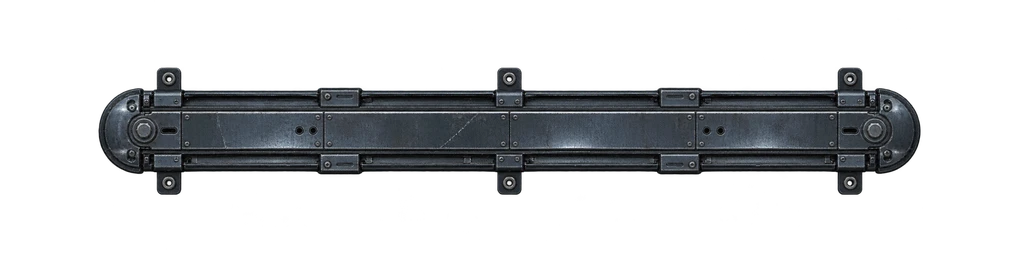
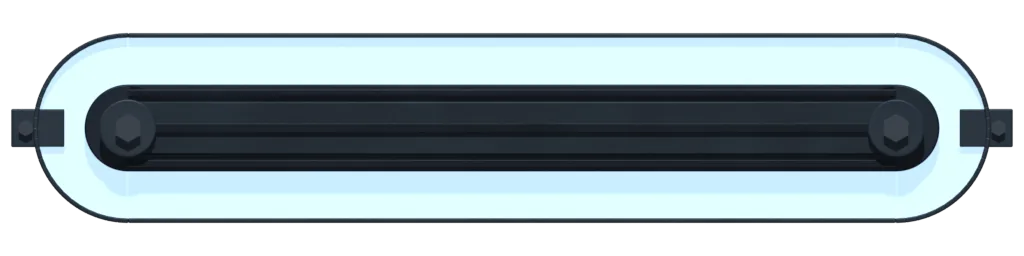
Les deux luminaires refaits dans Blender, le bandeau en trois tranches
Symptôme : les lampes posées dans un tableau se lisaient mal — des
pastilles pâles, et pour le bandeau une barre laiteuse aux bouts pointus :
« il faudrait refaire les différentes lampes sous Blender, là c'est moche »
(le concepteur, 16/11).

Causes : les deux images sortaient d'un générateur et montraient le dos
d'une lampe, du métal clair, rien d'allumé. Et celle du bandeau était
posée d'un seul quad à la longueur de la lampe : un bandeau long étirait
ses embouts ronds en pointes, ses boulons en ovales.

Correctifs :
- tools/images/blender/lampes.py : un capot d'acier à ailettes, ses pattes
  boulonnées, et la lumière qui fuit autour — un anneau pour le
  plafonnier, deux bandes le long de l'épine du bandeau. Trois essais : au
  premier le liseré n'était qu'un fil à la taille du jeu ; la lumière prend
  maintenant le tiers extérieur. Scène à part (« lampes »), sans vider le
  fichier Blender ouvert ;
- le bandeau se dessine en trois tranches (lampes.ts : tranchesBandeau) :
  deux embouts carrés, jamais étirés, un milieu uniforme qui s'allonge.

Vérification : lampes.spec.ts — embouts carrés à toute longueur, tranches
jointives du bord au bord, bouts de la lampe au centre des embouts, lampe
courte sans recouvrement ; avant le correctif du rendu : 1 rouge. Chaîne
des images : 2 livrées, 0 hors mesure (13 Ko et 8 Ko). Au banc, tableau 1 :
le bandeau en tube clair, bouts ronds. type-check 0 erreur, 2360 tests,
build OK.
[…]

diff --git a/src/render/lampes.spec.ts b/src/render/lampes.spec.ts
@@ -1,0 +1,55 @@
+import { describe, it, expect } from 'vitest'
+import { readFileSync } from 'node:fs'
+import { fileURLToPath } from 'node:url'
+import { EMBOUT_U, tranchesBandeau } from './lampes'
+
+// LE BANDEAU EN TROIS TRANCHES (retour du concepteur, 16/11 : les lampes
+// « moches ») : l'image, étirée d'un seul tenant, allongeait ses embouts en
+// pointes. Les embouts gardent leur forme, le milieu prend la longueur.
+const source = readFileSync(fileURLToPath(new URL('./renderer.ts', import.meta.url)), 'utf8')
+const a = source.indexOf('private drawLampes(')
+const drawLampes = a < 0 ? '' : source.slice(a, source.indexOf('\n  }\n', a))
+
+describe('le bandeau se dessine en trois tranches', () => {
+  it('les embouts sont carrés, quelle que soit la longueur de la lampe', () => {
+    for (const demiLong of [60, 120, 400, 900]) {
+      const t = tranchesBandeau(demiLong, 20)
+      expect(t).toHaveLength(3)
+      expect(t[0].x1 - t[0].x0).toBeCloseTo(40, 6)
+      expect(t[2].x1 - t[2].x0).toBeCloseTo(40, 6)
+      expect([t[0].u0, t[0].u1]).toEqual([0, EMBOUT_U])
+      expect([t[2].u0, t[2].u1]).toEqual([1 - EMBOUT_U, 1])
+    }
+  })
+
+  it('le milieu prend le reste : les tranches se suivent sans trou, du bord au bord du quad', () => {
+    const t = tranchesBandeau(400, 20)
+    expect(t[0].x0).toBeCloseTo(-420, 6)
+    expect(t[2].x1).toBeCloseTo(420, 6)
+    expect(t[1].x0).toBe(t[0].x1)
+    expect(t[1].x1).toBe(t[2].x0)
+    expect([t[1].u0, t[1].u1]).toEqual([EMBOUT_U, 1 - EMBOUT_U])
+  })
+
+  it('les deux bouts de la lampe tombent au centre des embouts', () => {
+    // le segment de la lampe va de −demiLong à +demiLong : c'est là que
+    // l'image a ses brides (à un huitième de chaque bord)
+    const t = tranchesBandeau(400, 20)
+    expect((t[0].x0 + t[0].x1) / 2).toBeCloseTo(-400, 6)
+    expect((t[2].x0 + t[2].x1) / 2).toBeCloseTo(400, 6)
+  })
+
+  it('une lampe trop courte serre ses deux embouts, sans milieu ni recouvrement', () => {
+    const t = tranchesBandeau(8, 20)
+    expect(t).toHaveLength(2)
+    expect(t[0].x0).toBeCloseTo(-28, 6)
+    expect(t[0].x1).toBeCloseTo(0, 6)
+    expect(t[1].x0).toBeCloseTo(0, 6)
+    expect(t[1].x1).toBeCloseTo(28, 6)
+  })
+
+  it('le rendu pose le bandeau tranche par tranche, le plafonnier d’un seul quad', () => {
+    expect(drawLampes).toContain('tranchesBandeau(l.demiLong, R)')
+    expect(drawLampes).not.toMatch(/const hw = l\.bandeau \? l\.demiLong \+ R : R/)
+  })
+})

diff --git a/src/render/renderer.ts b/src/render/renderer.ts
@@ -110,6 +110,7 @@ import {
   hauteursPartagees,
   type BoiteVolume,
 } from './volume'
+import { tranchesBandeau } from './lampes'
 import { RELIEF_PAROIS_GLSL, fractionSommet, pointDuSommet } from './reliefParois'
 import {
   CARREAU_MONDE,
@@ -8035,32 +8036,38 @@ export class Renderer {
       }
       // même rayon que le dessin procédural, marge des pattes comprise
       const R = Math.min(26, Math.max(11, 9 + l.h * 0.012)) * l.taille * 1.35
-      const hw = l.bandeau ? l.demiLong + R : R
       const hh = R
       const ca = Math.cos(l.angleRad)
       const sa = Math.sin(l.angleRad)
-      const q = this.decalScratch
-      let o = 0
-      const put = (dx: number, dy: number, u: number, v: number): void => {
-        q[o++] = l.x + dx * ca - dy * sa
-        q[o++] = l.y + dx * sa + dy * ca
-        q[o++] = u
-        q[o++] = v
-      }
-      put(-hw, -hh, 0, 0)
-      put(hw, -hh, 1, 0)
-      put(hw, hh, 1, 1)
-      put(-hw, -hh, 0, 0)
-      put(hw, hh, 1, 1)
-      put(-hw, hh, 0, 1)
-      gl.bindBuffer(gl.ARRAY_BUFFER, this.decalVbo)
-      gl.bufferSubData(gl.ARRAY_BUFFER, 0, q)
       gl.activeTexture(gl.TEXTURE0)
       gl.bindTexture(gl.TEXTURE_2D, tex)
       gl.uniform1i(du['uTexDecal'], 0)
       gl.uniform1f(du['uFade'], 0.92)
       gl.uniform1f(du['uEfface'], 0)
-      gl.drawArrays(gl.TRIANGLES, 0, 6)
+      gl.bindBuffer(gl.ARRAY_BUFFER, this.decalVbo)
+      // LE BANDEAU EN TROIS TRANCHES (lampes.ts) : deux embouts carrés, un
+      // milieu qui prend la longueur. D'un seul quad, l'image s'étirait
+      // avec la lampe — ses embouts ronds en pointes, ses boulons en ovales.
+      // Le plafonnier, lui, tient dans un quad.
+      const tranches = l.bandeau ? tranchesBandeau(l.demiLong, R) : [{ x0: -R, x1: R, u0: 0, u1: 1 }]
+      for (const t of tranches) {
+        const q = this.decalScratch
+        let o = 0
+        const put = (dx: number, dy: number, u: number, v: number): void => {
+          q[o++] = l.x + dx * ca - dy * sa
+          q[o++] = l.y + dx * sa + dy * ca
+          q[o++] = u
+          q[o++] = v
+        }
+        put(t.x0, -hh, t.u0, 0)
+        put(t.x1, -hh, t.u1, 0)
+        put(t.x1, hh, t.u1, 1)
+        put(t.x0, -hh, t.u0, 0)
+        put(t.x1, hh, t.u1, 1)
+        put(t.x0, hh, t.u0, 1)
+        gl.bufferSubData(gl.ARRAY_BUFFER, 0, q)
+        gl.drawArrays(gl.TRIANGLES, 0, 6)
+      }
     }
     if (started) {
       gl.bindVertexArray(null)

diff --git a/src/render/lampes.ts b/src/render/lampes.ts
@@ -1,0 +1,35 @@
+// LE BANDEAU SE DESSINE EN TROIS TRANCHES.
+//
+// L'image d'un bandeau (lampe-bande.webp, 1024 × 256) était posée d'un seul
+// tenant sur un quad à la longueur de la lampe : un bandeau long étirait ses
+// embouts ronds en pointes et ses boulons en ovales — « c'est moche » (le
+// concepteur, 16/11). Elle se découpe maintenant comme un cadre : un embout
+// carré à chaque bout (le premier et le dernier quart de l'image), jamais
+// étirés, et un milieu (la moitié centrale) qui prend toute la longueur
+// restante. L'image est dessinée pour : tout ce qu'elle porte dans son
+// milieu est uniforme le long de la barre (tools/images/blender/lampes.py).
+
+/** La part de l'image que prend chaque embout (un carré : 256 px sur 1024). */
+export const EMBOUT_U = 0.25
+
+export interface TrancheBandeau {
+  /** le long de la barre, dans son repère (0 : son milieu), unités monde */
+  x0: number
+  x1: number
+  /** la bande d'image posée dessus */
+  u0: number
+  u1: number
+}
+
+/** Les tranches d'un bandeau de demi-longueur `demiLong`, pour un quad de
+ *  demi-hauteur `r` (le quad déborde la lampe de `r` à chaque bout). Un
+ *  embout fait la hauteur du quad, 2r ; une lampe trop courte pour en loger
+ *  deux les serre l'un contre l'autre, sans milieu. */
+export function tranchesBandeau(demiLong: number, r: number): TrancheBandeau[] {
+  const hw = Math.max(demiLong, 0) + r
+  const embout = Math.min(2 * r, hw)
+  const t: TrancheBandeau[] = [{ x0: -hw, x1: -hw + embout, u0: 0, u1: EMBOUT_U }]
+  if (hw - embout > 1e-6) t.push({ x0: -hw + embout, x1: hw - embout, u0: EMBOUT_U, u1: 1 - EMBOUT_U })
+  t.push({ x0: hw - embout, x1: hw, u0: 1 - EMBOUT_U, u1: 1 })
+  return t
+}

diff --git a/tools/images/blender/lampes.py b/tools/images/blender/lampes.py
@@ -1,0 +1,177 @@
+"""LES DEUX LUMINAIRES, refaits dans Blender (16/11) — lampe-plafonnier.webp
+(512², rond) et lampe-bande.webp (1024 × 256, le bandeau).
+
+Les anciens sortaient du générateur : le DOS d'une lampe, du métal clair et
+rien d'allumé. En jeu, c'étaient des pastilles pâles et, pour le bandeau —
+étiré d'un seul tenant à la longueur de la lampe —, une barre laiteuse aux
+embouts pointus : « c'est moche » (le concepteur, 16/11).
+
+On regarde toujours le luminaire PAR-DESSUS (il est au plafond, la caméra
+au-dessus de lui) : un capot, pas une vitre. Mais un capot qui dit ce qu'il
+est — un acier sombre à ailettes de refroidissement, des pattes boulonnées,
+et LA LUMIÈRE QUI FUIT tout autour, par le jeu entre le capot et sa
+monture : un liseré blanc froid, seul élément clair de la pièce. La flaque
+et le halo au sol restent ceux du moteur (la carte de lumière).
+
+Le cadrage est celui que le moteur attend (renderer.ts : drawLampes) : le
+quad déborde le corps de 35 % pour les pattes — le corps a donc un rayon de
+1 / 1,35 de la demi-image. LE BANDEAU SE DESSINE EN TROIS TRANCHES (lampes.ts
+: tranchesBandeau) : deux embouts carrés, jamais étirés, et un milieu qui
+s'allonge — tout ce qui est dans le milieu de l'image (de 0,25 à 0,75) est
+donc UNIFORME le long de la barre : des ailettes filantes, pas de boulons.
+
+Dans Blender :
+    DOSSIER = r'...\\tools\\images\\blender'
+    exec(open(DOSSIER + r'\\lampes.py', encoding='utf-8').read())
+    lampes() ; lance(LAMPES, SORTIE, 256)
+    (SORTIE : masters\\images\\lampes, avec brut\\ et alpha\\)
+"""
+import bpy, bmesh, math, os, random
+from mathutils import Matrix, Vector
+
+_src = os.path.join(DOSSIER, 'surfaces.py')
+exec(compile(open(_src, encoding='utf-8').read(), _src, 'exec'), globals())
+
+PREFIXE = 'lampe-'
+LAMPES = ['plafonnier', 'bande']
+DEBORD = 1.35             # le quad du moteur, rapporté au corps
+
+
+def matieres_lampes():
+    mats = matieres_biome()
+    mats['capot'] = mat_brosse('lampe-capot', (0x26, 0x32, 0x3e), (0x50, 0x60, 0x6e), 81, brosse=0.10)
+    mats['plat'] = mat_brosse('lampe-monture', (0x32, 0x40, 0x4c), (0x5e, 0x6e, 0x7c), 83, brosse=0.08)
+    mats['rail'] = mat_brosse('lampe-ailette', (0x1a, 0x24, 0x2e), (0x38, 0x46, 0x52), 85, brosse=0.05)
+    mats['rivet'] = mats['plat']
+    mats['ecrou'] = mat_simple('lampe-ecrou', (0x58, 0x62, 0x6c), rug=0.4, metal=0.6)
+    # la lumière qui fuit : un blanc froid — c'est le seul clair de la
+    # pièce, il doit se lire à 40 pixels d'écran. À force 5, il sortait en
+    # blanc pur, écrêté, un trait de feutre (essai 1) : à 1, il garde sa
+    # teinte, et l'acier éclairci autour le porte au lieu de le découper
+    mats['fuite'] = mat_simple('lampe-fuite', (0xc8, 0xe6, 0xff), rug=0.5, emission=(0xc4, 0xe6, 0xff), force=1.0)
+    return mats
+
+
+def piece(sc, mats, nom, bati, x1, z1):
+    P = parent(sc, nom)
+    at = Atelier()
+    bati(at)
+    at.objets(P, mats, {'capot': 0.0016, 'plat': 0.0012, 'rail': 0.0008}, prefixe='lampe-' + nom)
+    for ob in P.objects:
+        if ob.name.endswith(('capot', 'fuite')):
+            ob.data.polygons.foreach_set('use_smooth', [True] * len(ob.data.polygons))
+            try:
+                ob.data.set_sharp_from_angle(angle=math.radians(40))
+            except Exception as e:
+                print('lissage :', e)
+    declare(nom, P, 0, x1, 0, z1, alpha=True)
+
+
+def plafonnier(at):
+    c = 0.25                      # le centre de l'image (0,5 de côté)
+    R = c / DEBORD                # le corps
+    # la fuite de lumière, sous le capot, qui déborde en liseré
+    at.disque('fuite', c, c, R * 1.0, -0.004, 0.0, 0, seg=96)
+    # la monture : une couronne fine, détachée du capot par le liseré
+    at.anneau('plat', c, c, R * 1.0, R * 0.95, -0.012, 0.0, 0.3, seg=96)
+    # le capot, bombé en deux gradins
+    # (à 0,88 du rayon, la lumière n'était plus qu'un fil à la taille du
+    # jeu — une pastille sombre, essai 3 : le capot rentre, la lumière prend
+    # le tiers extérieur)
+    at.disque('capot', c, c, R * 0.66, -0.02, 0.0, 0, seg=96)
+    at.disque('capot', c, c, R * 0.46, -0.03, -0.02, 0.4, seg=96)
+    # les ailettes : des couronnes dressées sur le premier gradin
+    for k in range(2):
+        r = R * (0.63 - k * 0.075)
+        at.anneau('rail', c, c, r, r - R * 0.03, -0.027, -0.02, 0, seg=96)
+    # le moyeu et son écrou
+    at.disque('plat', c, c, R * 0.22, -0.038, -0.03, 0.3, seg=48)
+    at.cylindre('ecrou', c, c, R * 0.11, -0.046, -0.038, 0, seg=6)
+    # quatre fentes rayonnantes sur le gradin haut : la chaleur sort par là
+    for k in range(4):
+        a = math.pi / 4 + k * math.pi / 2
+        at.boite('rail', c + math.cos(a) * R * 0.35 - R * 0.07, c + math.cos(a) * R * 0.35 + R * 0.07,
+                 c + math.sin(a) * R * 0.35 - R * 0.02, c + math.sin(a) * R * 0.35 + R * 0.02,
+                 -0.0305, -0.0285, 0, rot=Matrix.Rotation(-a, 4, 'Y'))
+    # quatre bras portent le capot à travers l'anneau de lumière
+    for k in range(4):
+        a = math.pi / 4 + k * math.pi / 2
+        rm = R * 0.8
+        at.boite('plat', c + math.cos(a) * rm - R * 0.17, c + math.cos(a) * rm + R * 0.17, c + math.sin(a) * rm - R * 0.03, c + math.sin(a) * rm + R * 0.03,
+                 -0.012, 0.0, 0.3, rot=Matrix.Rotation(-a, 4, 'Y'))
+    # les quatre pattes, de la monture au bord de l'image, boulonnées
+    for k in range(4):
+        a = k * math.pi / 2
+        ca, sa = math.cos(a), math.sin(a)
+        rm = R * 1.13
+        at.boite('plat', c + ca * rm - R * 0.2, c + ca * rm + R * 0.2, c + sa * rm - R * 0.105, c + sa * rm + R * 0.105,
+                 -0.01, 0.0, 0.3, rot=Matrix.Rotation(-a, 4, 'Y'))
+        at.cylindre('ecrou', c + ca * R * 1.2, c + sa * R * 1.2, R * 0.055, -0.016, -0.01, 0, seg=6)
+
+
+def bande(at):
+    zc = 0.125                    # l'axe (l'image fait 1 × 0,25)
+    R = zc / DEBORD               # la demi-hauteur du corps
+    xa, xb = 0.125, 0.875         # les deux bouts du segment de la lampe
+    # la fuite : une gélule claire sous le capot, qui déborde en liseré
+    at.boite('fuite', xa, xb, zc - R, zc + R, -0.004, 0.0, 0)
+    # (les disques un cheveu plus bas que le pavé : deux faces émissives
+    # confondues se sommaient en une tache blanche, essai 2)
+    for x in (xa, xb):
+        at.disque('fuite', x, zc, R, -0.0036, 0.0, 0, seg=64)
+    # la monture : deux lisses le long de la barre, une couronne à chaque
+    # bout — le liseré de lumière passe entre elle et le capot
+    for s in (-1, 1):
+        z0, z1 = sorted((zc + s * R * 0.95, zc + s * R))
+        at.boite('plat', xa, xb, z0, z1, -0.012, 0.0, 0.3)
+    # (une couronne ENTIÈRE montrait sa moitié intérieure en travers du
+    # liseré, essai 2 : la demi-couronne se pose en petits pavés tangents)
+    n = 28
+    for x, s0 in ((xa, 1), (xb, -1)):
+        for i in range(n):
+            ang = math.pi / 2 + s0 * math.pi * (i + 0.5) / n
+            ca, sa = math.cos(ang), math.sin(ang)
+            demi = math.pi * R * 0.975 / n * 0.56
+            at.boite('plat', x + ca * R * 0.975 - demi, x + ca * R * 0.975 + demi, zc + sa * R * 0.975 - R * 0.025, zc + sa * R * 0.975 + R * 0.025,
+                     -0.012, 0.0, 0.3, rot=Matrix.Rotation(-(ang + math.pi / 2), 4, 'Y'))
+    # le capot : une gélule plus étroite, en deux gradins
+    # (large de 0,84, il ne laissait qu'un fil de lumière à la taille du
+    # jeu, essai 3 : une épine centrale, la lumière de part et d'autre)
+    for (k, y0, y1, var) in ((0.46, -0.02, 0.0, 0.0), (0.28, -0.03, -0.02, 0.4)):
+        at.boite('capot', xa, xb, zc - R * k, zc + R * k, y0, y1, var)
+        for x in (xa, xb):
+            at.disque('capot', x, zc, R * k, y0, y1, var, seg=64)
+    # deux ailettes filantes sur le premier gradin, de part et d'autre —
+    # UNIFORMES le long de la barre : le milieu s'allonge sans les déformer
+    for s in (-1, 1):
+        at.boite('rail', xa, xb, zc + s * R * 0.37 - R * 0.035, zc + s * R * 0.37 + R * 0.035, -0.027, -0.02, 0)
+    # une nervure filante sur le gradin haut
+    at.boite('rail', xa, xb, zc - R * 0.05, zc + R * 0.05, -0.034, -0.03, 0)
+    # les embouts : une bride, son écrou, et la patte qui sort du cadre
+    for x, s in ((xa, -1), (xb, 1)):
+        at.disque('plat', x, zc, R * 0.3, -0.038, -0.03, 0.3, seg=40)
+        at.cylindre('ecrou', x, zc, R * 0.15, -0.046, -0.038, 0, seg=6)
+        at.boite('plat', x + s * R * 0.95 - R * 0.28, x + s * R * 0.95 + R * 0.28, zc - R * 0.2, zc + R * 0.2, -0.01, 0.0, 0.3)
+        at.cylindre('ecrou', x + s * R * 1.08, zc, R * 0.085, -0.016, -0.01, 0, seg=6)
+
+
+def lampes():
+    """bâtit les deux luminaires dans LEUR scène (« lampes »), sans vider le
+    fichier ouvert (vide_scene efface tous les objets de toutes les scènes)"""
+    ancienne = bpy.data.scenes.get('lampes')
+    sc = bpy.data.scenes.new('lampes-neuve')
+    bpy.context.window.scene = sc
+    if ancienne:
+        for o in list(ancienne.objects):
+            bpy.data.objects.remove(o, do_unlink=True)
+        for c in list(ancienne.collection.children_recursive):
+            bpy.data.collections.remove(c)
+        bpy.data.scenes.remove(ancienne)
+    sc.name = 'lampes'
+    PIECES.clear()
+    mats = matieres_lampes()
+    piece(sc, mats, 'plafonnier', plafonnier, 0.5, 0.5)
+    piece(sc, mats, 'bande', bande, 1.0, 0.25)
+    lumiere_camera(sc)
+    sc.cycles.device = 'GPU'
+    return sc

diff --git a/docs/assets-ia.md b/docs/assets-ia.md
@@ -239,6 +239,18 @@ existent, le jeu les dessine à la place du luminaire procédural, à la positio
 de chaque lampe posée (taille et rotation automatiques). Tant qu'ils n'existent
 pas, le dessin procédural reste en place — aucun risque.
 
+> **Refaits dans Blender le 16/11** (`tools/images/blender/lampes.py`). Les
+> deux images générées montraient un dos de lampe en métal clair, rien
+> d'allumé ; en jeu, des pastilles pâles et un bandeau étiré en pointes —
+> « c'est moche » (le concepteur). On regarde toujours le luminaire
+> par-dessus, mais la LUMIÈRE Y FUIT : un anneau clair autour du capot du
+> plafonnier, deux bandes de part et d'autre de l'épine du bandeau. À la
+> taille du jeu (une quinzaine de pixels), c'est la lumière qui doit
+> dominer : un simple liseré s'y réduisait à un fil. Le bandeau se dessine
+> en TROIS TRANCHES (`src/render/lampes.ts`) : deux embouts carrés jamais
+> étirés, un milieu uniforme qui prend la longueur. Les consignes de
+> génération ci-dessous sont gardées pour mémoire.
+
 ### 12a. `lampe-plafonnier.webp`
 **512×512 · WebP/PNG TRANSPARENT · parfaitement centré · vu du DESSUS**
 
